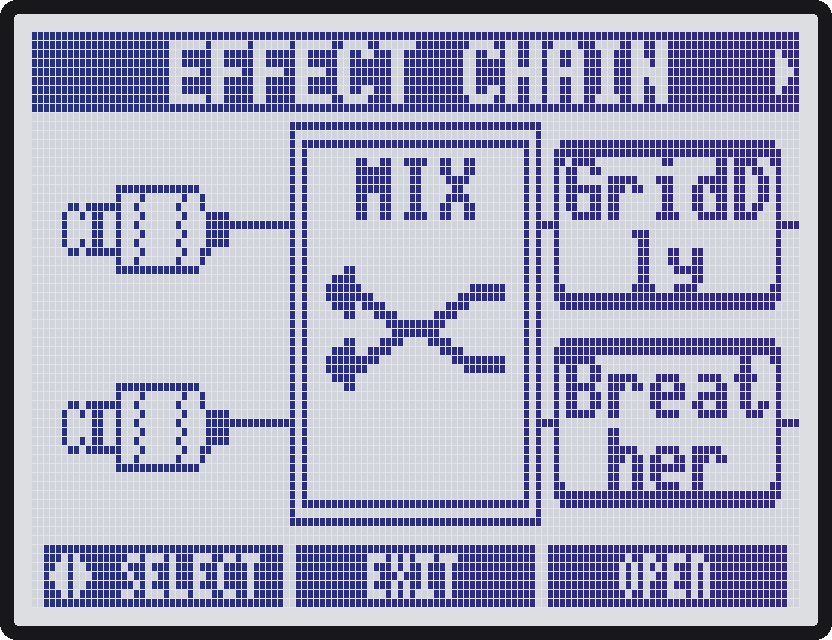
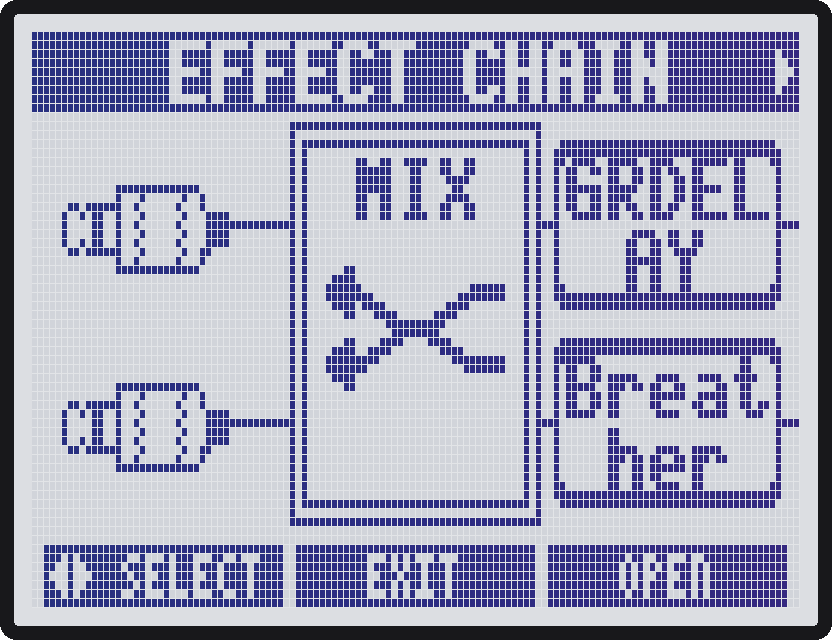
Chain screenshots: GridDly is GRDELAY

Changed region(s): [[0.7188, 0.25, 0.9375, 0.4688]]

diff --git a/scripts/screens/chain_shot.c b/scripts/screens/chain_shot.c
@@ -29,10 +29,10 @@ static void two(Chain *c, int stereo, int cur, const char *a, const char *b)
 int main(int argc, char **argv)
 {
     Chain c; const char *d = argv[1];
-    two(&c, 0, 0, "GridDly", "Breather"); out(d, "rm_a0", &c);
-    two(&c, 0, 1, "GridDly", "Breather"); out(d, "rm_a1", &c);
-    two(&c, 0, IT_ROUTE, "GridDly", "Breather"); out(d, "rm_route", &c);
-    two(&c, 0, IT_MIX, "GridDly", "Breather"); out(d, "rm_mix", &c);
-    two(&c, 0, 0, "DirtBox", "GridDly"); out(d, "rm_b0", &c);
+    two(&c, 0, 0, "GRDELAY", "Breather"); out(d, "rm_a0", &c);
+    two(&c, 0, 1, "GRDELAY", "Breather"); out(d, "rm_a1", &c);
+    two(&c, 0, IT_ROUTE, "GRDELAY", "Breather"); out(d, "rm_route", &c);
+    two(&c, 0, IT_MIX, "GRDELAY", "Breather"); out(d, "rm_mix", &c);
+    two(&c, 0, 0, "DirtBox", "GRDELAY"); out(d, "rm_b0", &c);
     return 0;
 }
